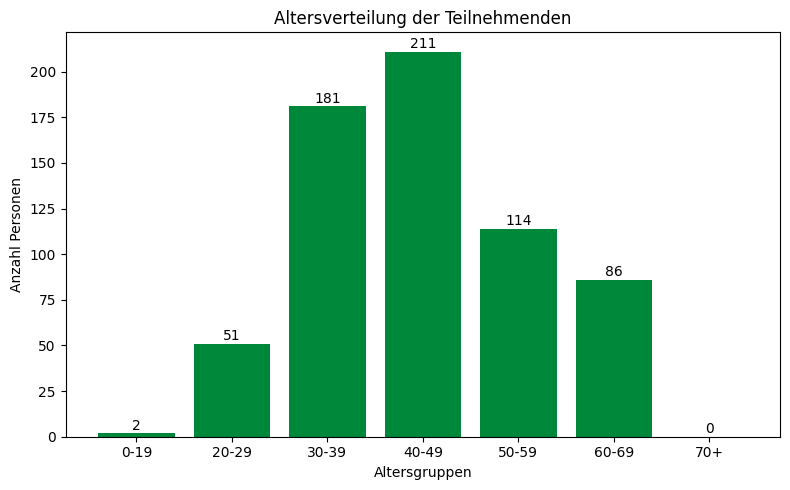
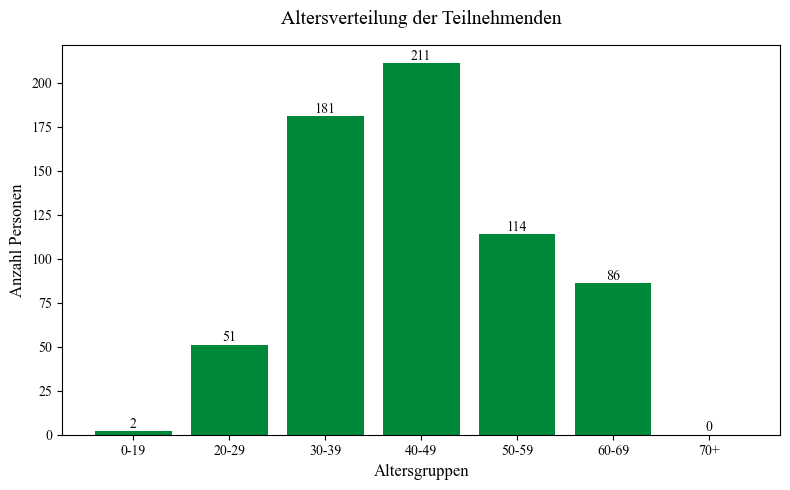
README Fortsetzung I

diff --git a/README.md b/README.md
@@ -1,16 +1,18 @@
 # Wenn Worte Brücken bauen: Kommunikationsstile von Chatbots und die Effekte auf Reaktanz und affektive Polarisierung
 
-Dieses Repository enthält die offizielle Analyse unseres Projekts **"Wenn Worte Brücken bauen: Kommunikationsstile von Chatbots und die Effekte auf Reaktanz und affektive Polarisierung"**, das im Rahmen des Masterprojekts "KI & politische Diskurse: Kann man LLMS nutzen, um Probleme politischer Diskurse zu lösen?" mit Daten des XXX durchgeführt wurde.
+Dieses Repository enthält die offizielle Analyse unseres Projekts **"Wenn Worte Brücken bauen: Kommunikationsstile von Chatbots und die Effekte auf Reaktanz und affektive Polarisierung"**, das im Rahmen des Masterprojekts "KI & politische Diskurse: Kann man LLMS nutzen, um Probleme politischer Diskurse zu lösen?" durchgeführt wurde.
 
 ## Untersuchungsgegenstand
-Wir untersuchen im Rahmen eines Online-Experiments, wie unterschiedliche Kommunikationsstile **(empathisch, faktenbasiert, gemischt)** von LLM-basierten Chatbots die Wahrnehmung und Einstellung von Nutzer:innen in politischen Diskursen beeinflussen. 
+Wir untersuchten mit einem Online-Experiments, wie unterschiedliche **Kommunikationsstile (empathisch, faktenbasiert, gemischt)** von LLM-basierten Chatbots die Wahrnehmung und Einstellung von Nutzer:innen in politischen Diskursen beeinflussen. 
 
 ### Zentrale Konstrukte: 
 
-- **Affektive Polarisierung**: Messung der emotionalen Distanz zwischen Ingroup und Outgroup.
-- **Psychologische Reaktanz**:XXX
-- **Wahrgenommene Authentizität und Vertrauen in den Chatbot**: XXX
-- **Kommunikationsstile**: Experimentelle Variation zwischen empathischem, faktenbasiertem und gemischtem Stil.
+- **Affektive Polarisierung**: Wachsende Kluft zwischen gesellschaftlichen Gruppen, die sich durch gegenseitige Ablehnung, Misstrauen und Animositäten gegenüber anderen politischen Akteuren (**Soziale Identitätstheorie (SIT)** nach Tajfel und Turner (1979)).
+
+- **Psychologische Reaktanz**: Ein motivationaler Zustand zur Wiederherstellung bedrohter Freiheitsspielräume; Backfire-Effekt.
+- **Wahrgenommene Authentizität und Vertrauen in den Chatbot**: Zentrale Faktoren in der Mensch-KI-Interaktion, die bestimmen, ob Nutzer:innen Informationen akzeptieren oder defensiv reagieren. Vertrauen basiert auf der Erwartung, dass sich das System gemäß sozialer Normen vorhersehbar verhält (**CASA-Paradigma & Anthropomorphismus, Stereotype Content Model**).
+
+- **Kommunikationsstile**: Experimentelle Variation zwischen **empathischem** (Fokus auf soziale Nähe und kognitive Empathie - erzeugt Wärme), **faktenbasiertem** (sachliche, effiziente Informationsvermittlung - betont Kompetenz) und **gemischtem** Stil (Kombination beider Stile zur Maximierung von Vertrauen und Reduktion von Vorurteilen - verbindet Wärme & Kompetenz).
 
 ## Forschungsleitendes Modell
 
@@ -57,7 +59,7 @@ Die Daten wurden im Rahmen einer standardisierten Online-Befragung mit integrier
 - **Einstellung zu Migration**: 276 Teilnehmende befürworten klar eine Obergrenze für Asylbewerber. Es zeigt sich ein schwacher Zusammenhang zwischen Alter und Einstellung: Ältere Personen lehnen Obergrenzen eher ab, ordnen sich aber gleichzeitig eher dem rechten Spektrum zu. 
 
 <p align="center">
-  <img src="figures/altersverteilung.png" width="650"/>
+  <img src="figures/Altersverteilung.png" width="650"/>
 </p>
 
 
@@ -75,36 +77,7 @@ Ein signifikanter Interaktionseffekt (F(2,639) = 5.05,p = 0.007) zeigte, dass di
 
 
 ---
-## Visualisierungen (Auszug)
-
-### Verteilung der Teilnehmer:innen nach Bundesland
-
-Anteil der Befragten je Bundesland in relativen Häufigkeiten
-
-<p align="center">
-  <img src="figures/karte_anteile_bundeslaender.png" width="500"/>
-</p>
-
----
-
-### Nutzung klassischer Medien & politisches Interesse
-
-Untersuchung des Zusammenhangs zwischen politischem Interesse und klassischer Mediennutzung
-
-<p align="center">
-  <img src="figures/mediennutzung_pol_interesse.png" width="650"/>
-</p>
-
----
-
-### Demokratiezufriedenheit & Einkommen
-
-Untersuchung der Demokratiezufriedenheit nach Einkommensgruppen
-
-<p align="center">
-  <img src="figures/demokratiezufriedenheit.png" width="650"/>
-</p>
-
+#...
 ---
 
 ## Wesentliche Erkenntnisse
